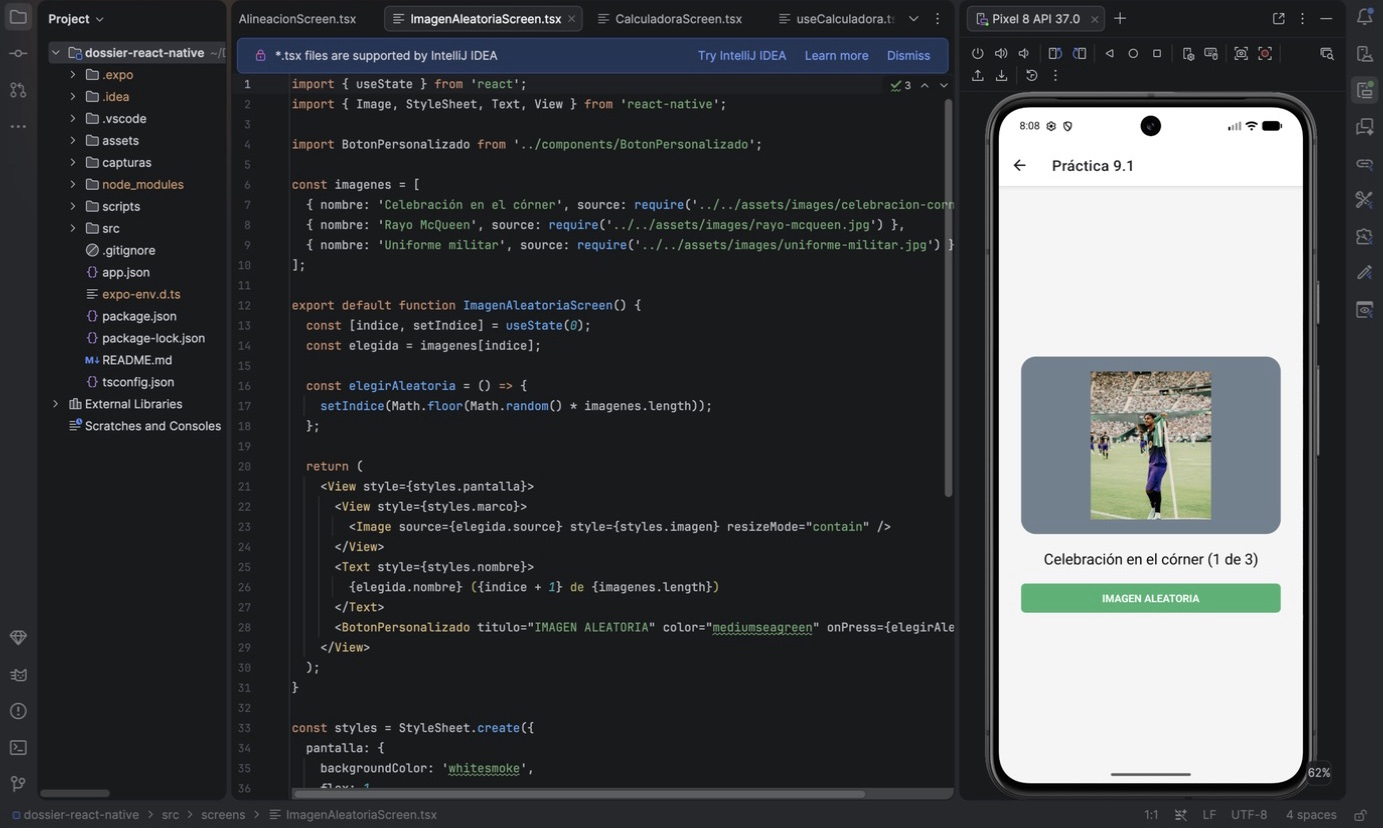
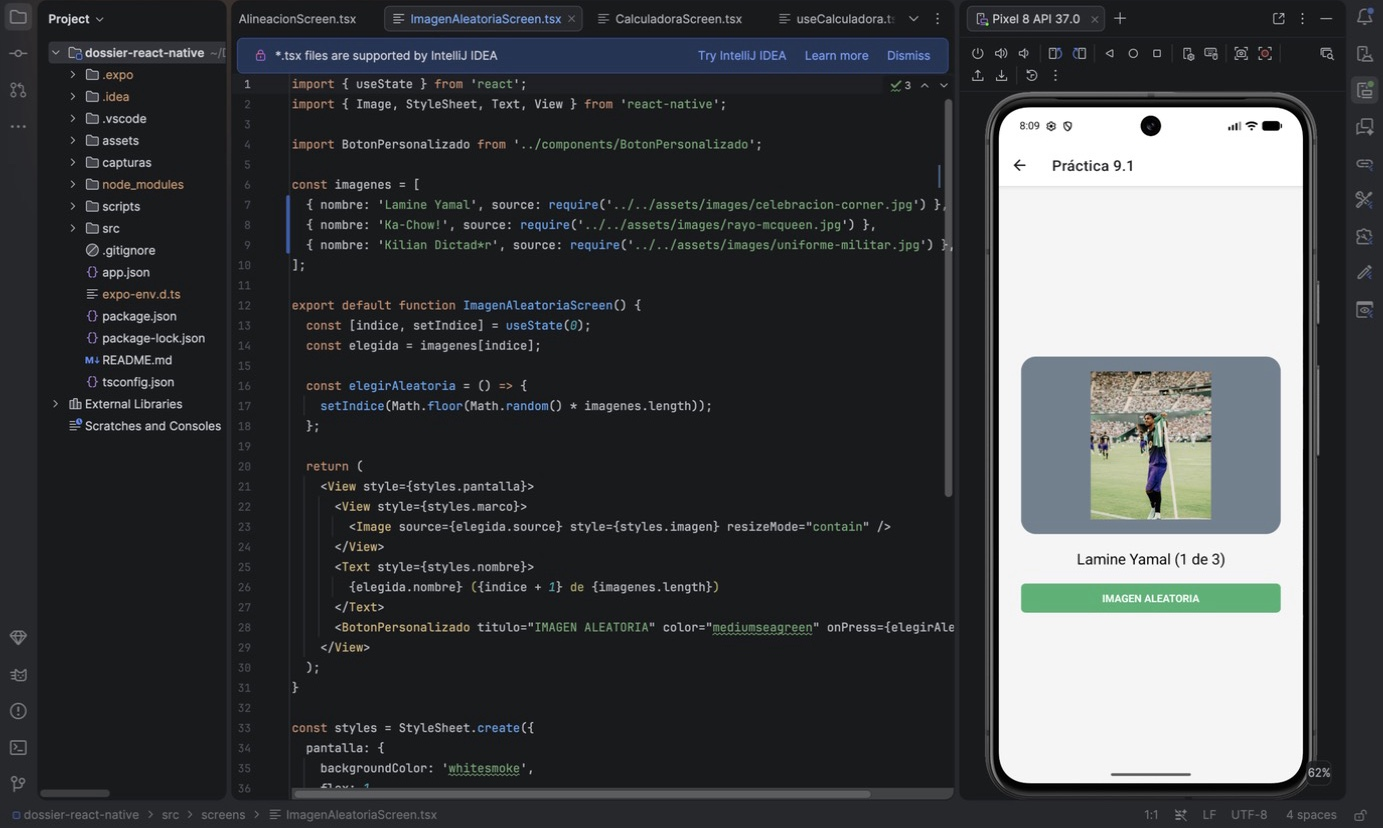
17/11/2026 - Les puse a las imágenes de la práctica 9.1 los nombres que quería (Lamine Yamal, Ka-Chow! y Kilian Dictad*r) y rehíce las capturas. Lo entregué el 17/11/2026 a las 20:10

diff --git a/src/screens/ImagenAleatoriaScreen.tsx b/src/screens/ImagenAleatoriaScreen.tsx
@@ -4,9 +4,9 @@ import { Image, StyleSheet, Text, View } from 'react-native';
 import BotonPersonalizado from '../components/BotonPersonalizado';
 
 const imagenes = [
-  { nombre: 'Celebración en el córner', source: require('../../assets/images/celebracion-corner.jpg') },
-  { nombre: 'Rayo McQueen', source: require('../../assets/images/rayo-mcqueen.jpg') },
-  { nombre: 'Uniforme militar', source: require('../../assets/images/uniforme-militar.jpg') },
+  { nombre: 'Lamine Yamal', source: require('../../assets/images/celebracion-corner.jpg') },
+  { nombre: 'Ka-Chow!', source: require('../../assets/images/rayo-mcqueen.jpg') },
+  { nombre: 'Kilian Dictad*r', source: require('../../assets/images/uniforme-militar.jpg') },
 ];
 
 export default function ImagenAleatoriaScreen() {

diff --git a/README.md b/README.md
@@ -393,25 +393,25 @@ Terminada.
 Con una colección de imágenes locales, un botón que elige una al azar con `Math.floor(Math.random() * imagenes.length)` y guarda la posición con `useState`.
 
 ### Cómo lo he hecho
-1. Hice una lista con tres imágenes que elegí yo y guardé en `assets/images`: una celebración en el córner, Rayo McQueen y un uniforme militar. Cada `require` va escrito entero, porque la ruta de `require` no se puede montar con una variable.
+1. Hice una lista con tres imágenes que elegí yo y guardé en `assets/images`: Lamine Yamal, Ka-Chow! y Kilian Dictad*r. Cada `require` va escrito entero, porque la ruta de `require` no se puede montar con una variable.
 
 ```tsx
 const imagenes = [
-  { nombre: 'Celebración en el córner', source: require('../../assets/images/celebracion-corner.jpg') },
-  { nombre: 'Rayo McQueen', source: require('../../assets/images/rayo-mcqueen.jpg') },
-  { nombre: 'Uniforme militar', source: require('../../assets/images/uniforme-militar.jpg') },
+  { nombre: 'Lamine Yamal', source: require('../../assets/images/celebracion-corner.jpg') },
+  { nombre: 'Ka-Chow!', source: require('../../assets/images/rayo-mcqueen.jpg') },
+  { nombre: 'Kilian Dictad*r', source: require('../../assets/images/uniforme-militar.jpg') },
 ];
 ```
 
 2. La posición va en un estado y la imagen que se ve es `imagenes[indice]`.
 3. El botón `IMAGEN ALEATORIA` hace `setIndice(Math.floor(Math.random() * imagenes.length))`.
-4. Debajo de la imagen sale su nombre y la posición, por ejemplo «Rayo McQueen (2 de 3)».
+4. Debajo de la imagen sale su nombre y la posición, por ejemplo «Ka-Chow! (2 de 3)».
 5. La pantalla es `src/screens/ImagenAleatoriaScreen.tsx`.
 
 ### Capturas
-![Práctica 9.1: sale la celebración en el córner](capturas/practica-09-1-corner.jpg)
+![Práctica 9.1: sale Lamine Yamal](capturas/practica-09-1-corner.jpg)
 
-![Práctica 9.1: al volver a pulsar sale Rayo McQueen](capturas/practica-09-1-mcqueen.jpg)
+![Práctica 9.1: al volver a pulsar sale Ka-Chow!](capturas/practica-09-1-mcqueen.jpg)
 
 ### Problemas que tuve
 - Al principio puse cinco imágenes que venían con la plantilla de Expo, y después las cambié por tres que elegí yo.
